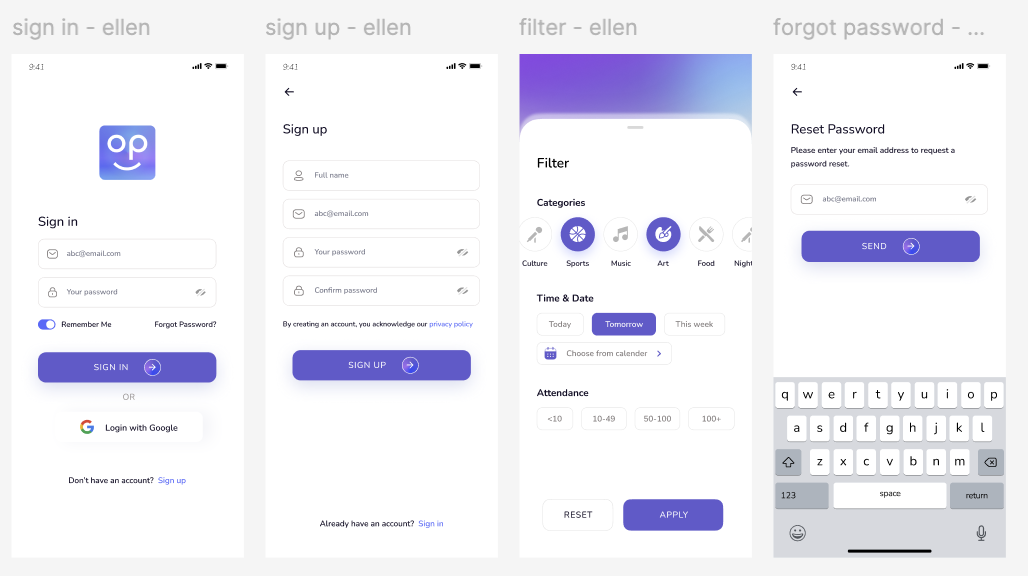
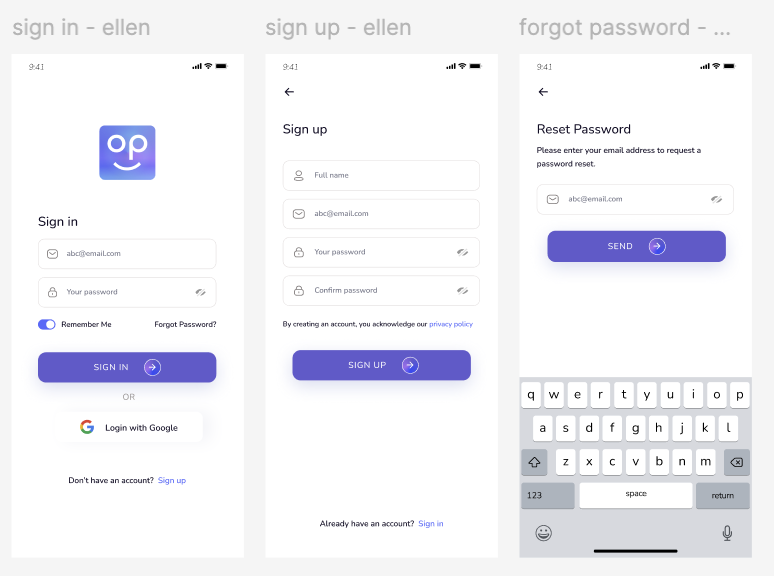
Popple: separate sign-in from filters and order V2 like a user's path
Sign in, sign up and reset password now sit together before onboarding,
and filters get their own spot as the searchability side of the debate.
V2 reads in order: signing in, onboarding, home and groups, joining a
group, filters.

diff --git a/index.html b/index.html
@@ -4727,9 +4727,27 @@
                     <h2 class="serif vs-h2" id="pp-v2-h">V2 was built around the map and groups.</h2>
 
                     <div class="pp-wide">
+                        <button type="button" class="vs-zoom" aria-label="Enlarge: Sign in, sign up and reset password"><img src="popple/sign-in.png" width="774" height="576" alt="Sign in with email or Google, sign up, and reset password" loading="lazy" decoding="async"></button>
+                        <div class="vs-screen-text">
+                            <p class="vs-label">01 · Signing in</p>
+                            <h3 class="serif">Sign in, sign up, or reset your password.</h3>
+                            <p>The screens before onboarding. People can sign in with their email or Google, create an account, or reset a forgotten password.</p>
+                        </div>
+                    </div>
+
+                    <div class="pp-wide">
+                        <button type="button" class="vs-zoom" aria-label="Enlarge: V2 onboarding flow"><img src="popple/onboarding.png" width="1356" height="1166" alt="V2 onboarding: university, graduation year, gender, up to 5 interests, relationship status, major, and how did you hear about us, one question per screen" loading="lazy" decoding="async"></button>
+                        <div class="vs-screen-text">
+                            <p class="vs-label">02 · Onboarding</p>
+                            <h3 class="serif">One question per screen.</h3>
+                            <p>The screens I created for how new users build their profile: school, graduation year, gender, interests, relationship status, major, and how they heard about us. Each question gets its own screen with a progress bar. This V2 flow was still more basic than V3.</p>
+                        </div>
+                    </div>
+
+                    <div class="pp-wide">
                         <button type="button" class="vs-zoom" aria-label="Enlarge: V2 home, event details, groups, chat and group details"><img src="popple/misc-2.png" width="1628" height="1000" alt="Five V2 screens: a home page with the map first, event details with Join group and Create group, My Groups, a group chat, and group details" loading="lazy" decoding="async"></button>
                         <div class="vs-screen-text">
-                            <p class="vs-label">01 · Home, events and groups</p>
+                            <p class="vs-label">03 · Home, events and groups</p>
                             <h3 class="serif">Find an event, then find your group.</h3>
                             <ul>
                                 <li><b>Home</b> put the map first, so you could see what’s happening around you.</li>
@@ -4743,25 +4761,12 @@
 
                     <div class="vs-screen">
                         <div class="vs-screen-img"><button type="button" class="vs-zoom" aria-label="Enlarge: Event joined confirmation"><img src="popple/join-confirm.png" width="262" height="576" alt="Event Joined confirmation with a View chat button" loading="lazy" decoding="async"></button></div>
-                        <div class="vs-screen-text"><p class="vs-label">02 · Joining a group</p><h3 class="serif">“Event joined!”</h3><p>Once you join a group to attend an event, a confirmation pops up with a shortcut straight to the group chat.</p></div>
+                        <div class="vs-screen-text"><p class="vs-label">04 · Joining a group</p><h3 class="serif">“Event joined!”</h3><p>Once you join a group to attend an event, a confirmation pops up with a shortcut straight to the group chat.</p></div>
                     </div>
 
-                    <div class="pp-wide">
-                        <button type="button" class="vs-zoom" aria-label="Enlarge: Sign in, sign up, filter and password reset"><img src="popple/sign-in.png" width="1028" height="576" alt="Sign in with Google login, sign up, event filters by category, date and attendance, and reset password" loading="lazy" decoding="async"></button>
-                        <div class="vs-screen-text">
-                            <p class="vs-label">03 · Signing up</p>
-                            <h3 class="serif">Sign in, sign up, and filters.</h3>
-                            <p>The start of onboarding: users can sign in (including with Google), sign up, or reset their password. The filter screen narrows events by category, date and how many people are going.</p>
-                        </div>
-                    </div>
-
-                    <div class="pp-wide">
-                        <button type="button" class="vs-zoom" aria-label="Enlarge: V2 onboarding flow"><img src="popple/onboarding.png" width="1356" height="1166" alt="V2 onboarding: university, graduation year, gender, up to 5 interests, relationship status, major, and how did you hear about us, one question per screen" loading="lazy" decoding="async"></button>
-                        <div class="vs-screen-text">
-                            <p class="vs-label">04 · Creating a profile</p>
-                            <h3 class="serif">One question per screen.</h3>
-                            <p>The screens I created for how new users build their profile: school, graduation year, gender, interests, relationship status, major, and how they heard about us. Each question gets its own screen with a progress bar. This V2 flow was still more basic than V3.</p>
-                        </div>
+                    <div class="vs-screen">
+                        <div class="vs-screen-img"><button type="button" class="vs-zoom" aria-label="Enlarge: Filters"><img src="popple/filters.png" width="254" height="576" alt="Filter screen with event categories, time and date, and attendance size" loading="lazy" decoding="async"></button></div>
+                        <div class="vs-screen-text"><p class="vs-label">05 · Filters</p><h3 class="serif">For people who know what they want.</h3><p>The searchability side of our debate. Filters narrow events by category, date, and how many people are going, so someone looking for something specific gets to it fast.</p></div>
                     </div>
                 </section>
 
